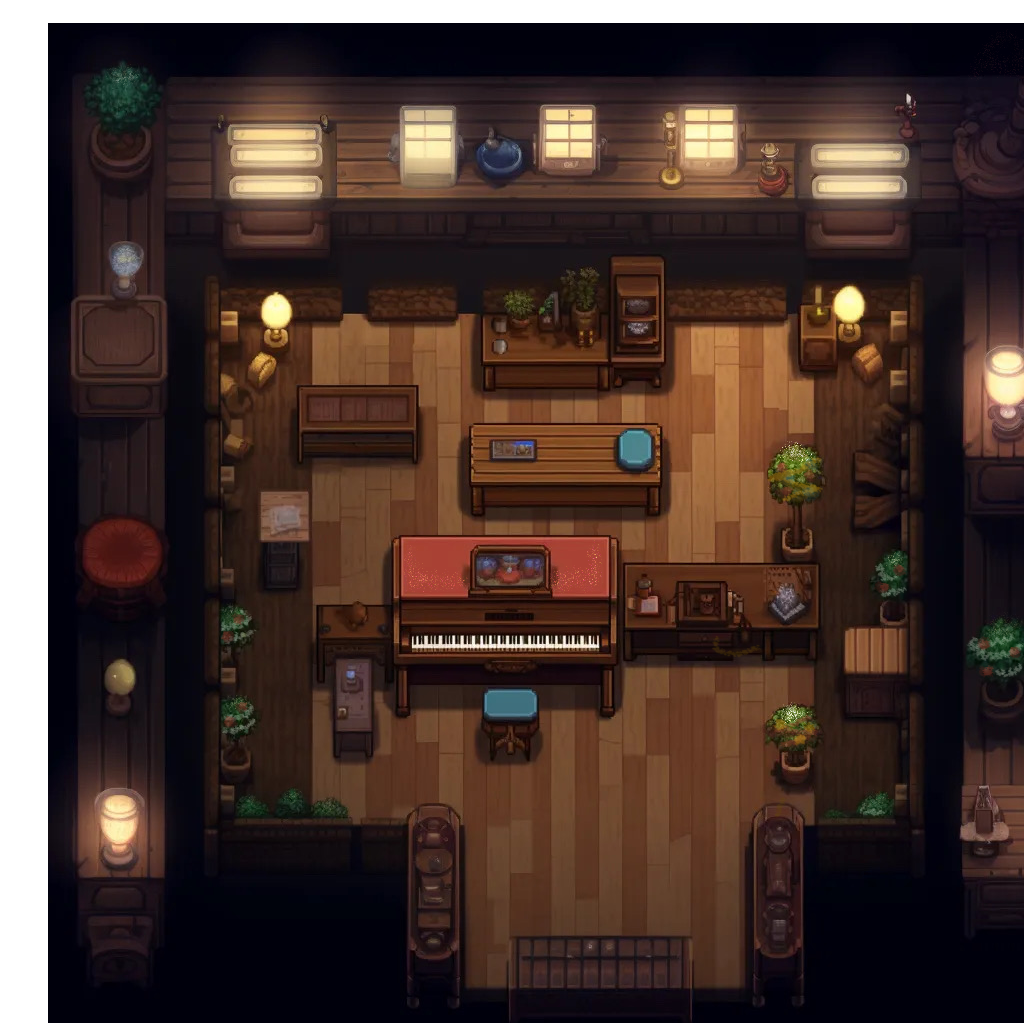
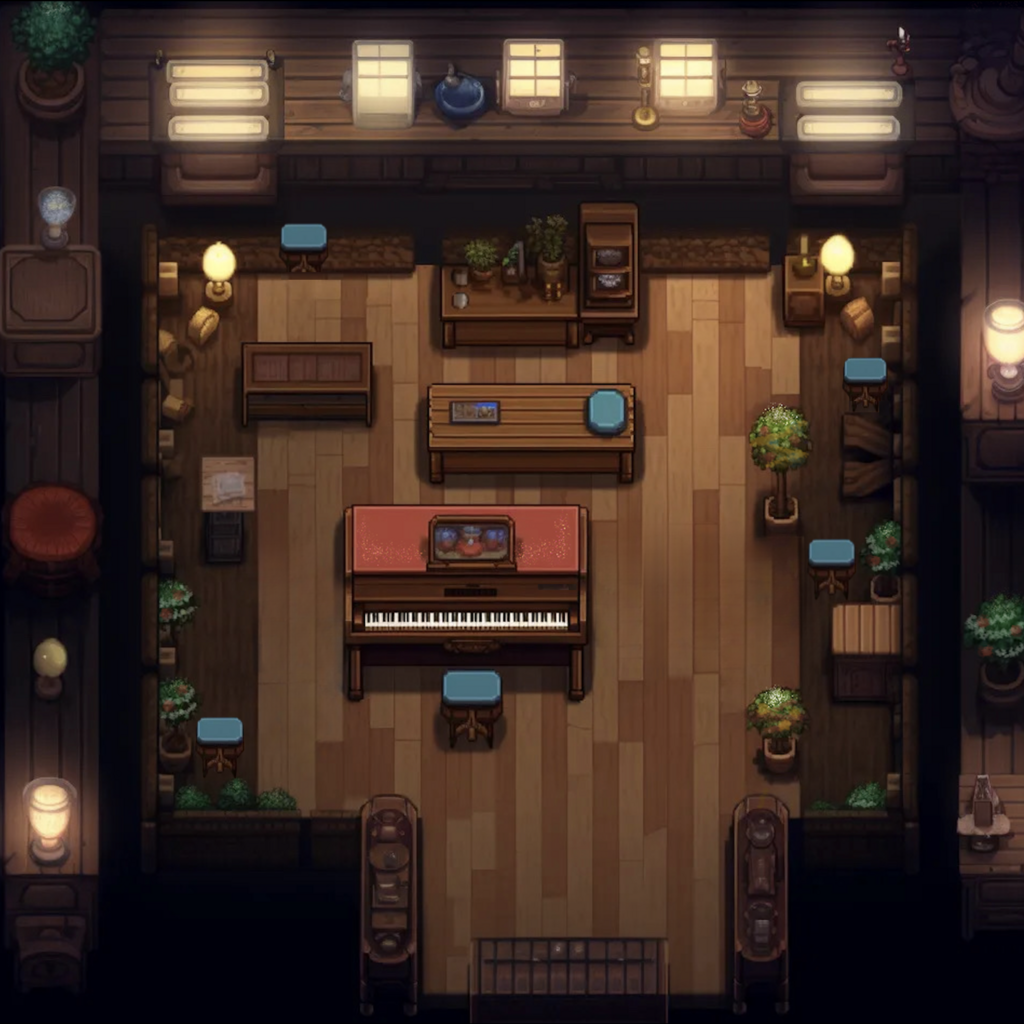
npc 3번까지 추가

diff --git a/pianoman/sketch.js b/pianoman/sketch.js
@@ -6,7 +6,7 @@ let bg_w, bg_h;
 let stage = 0; //0:로비, 1:NPC 플레이 중, 2:게임 중, 3:성공, 4:실패
 
 
-let NPC_count = 2; //TODO: 향후 수정 필요
+let NPC_count = 3; //TODO: 향후 수정 필요
 let NPCs = []; //NPC 객체들을 담을 배열
 let NPC_completed, NPC_tried = [0, 0, 0, 0]; //성공하면 1로 바뀌는 배열
 let success_count = 0;
@@ -15,7 +15,7 @@ let playingNPC;
 
 //lobby에 표시하는 용
 let NPC_pngs = []; //npc 이미지 저장
-let NPC_position = [[310, 330], [585, 350], [0, 0], [0, 0]]; //npc 위치 저장
+let NPC_position = [[310, 330], [585, 350], [780, 470], [0, 0]]; //npc 위치 저장
 let NPC_w = 100; //화면에 표시하는 크기
 let NPC_h = 130;
 
@@ -58,7 +58,7 @@ function preload() {
   //음악 불러오기
   song0 = loadSound('audio/hbdhard2.mp3');
   song1 = loadSound('audio/okdal.mp3');
-  song2 = loadSound('audio/memories.mp3');
+  //song2 = loadSound('audio/memories.mp3');
 }
 
 function setup() {
@@ -74,6 +74,7 @@ function setup() {
   //game 미리 생성 (임시)
   games[0] = new Game(0, song0);
   games[1] = new Game(1, song1);
+  //games[2] = new Game(2, song2);
 }
 
 function draw() {
@@ -113,8 +114,8 @@ function lobby() {
   plY = constrain(plY, 150, height-150);
 
   //player 그리기
-  drawPlayer();
   drawNPCs();
+  drawPlayer();
 
 
   let selectableNPC = nearNPCs();
@@ -125,13 +126,6 @@ function lobby() {
     noStroke();
     fill(255);
     circle(NPC_position[selectableNPC][0], NPC_position[selectableNPC][1],30,30);
-
-    //캐릭터 외곽선 따라 스트로크는 어려운 것 같고(물론 면담 때 질문 필요), 도형으로 스트로크 표시까지는 가능했음.
-    //스트로크 넣은 새로운 이미지 제작이 필요할 수도
-    /*noFill();
-    stroke(200,200,0);
-    strokeWeight(3);
-    rect(NPC_position[selectableNPC][0] + NPC_w/2, NPC_position[selectableNPC][1] + NPC_h/2, NPC_w, NPC_h);*/
     
     //npc 옆 글씨로 키 누를 것을 안내
     textSize(20);
